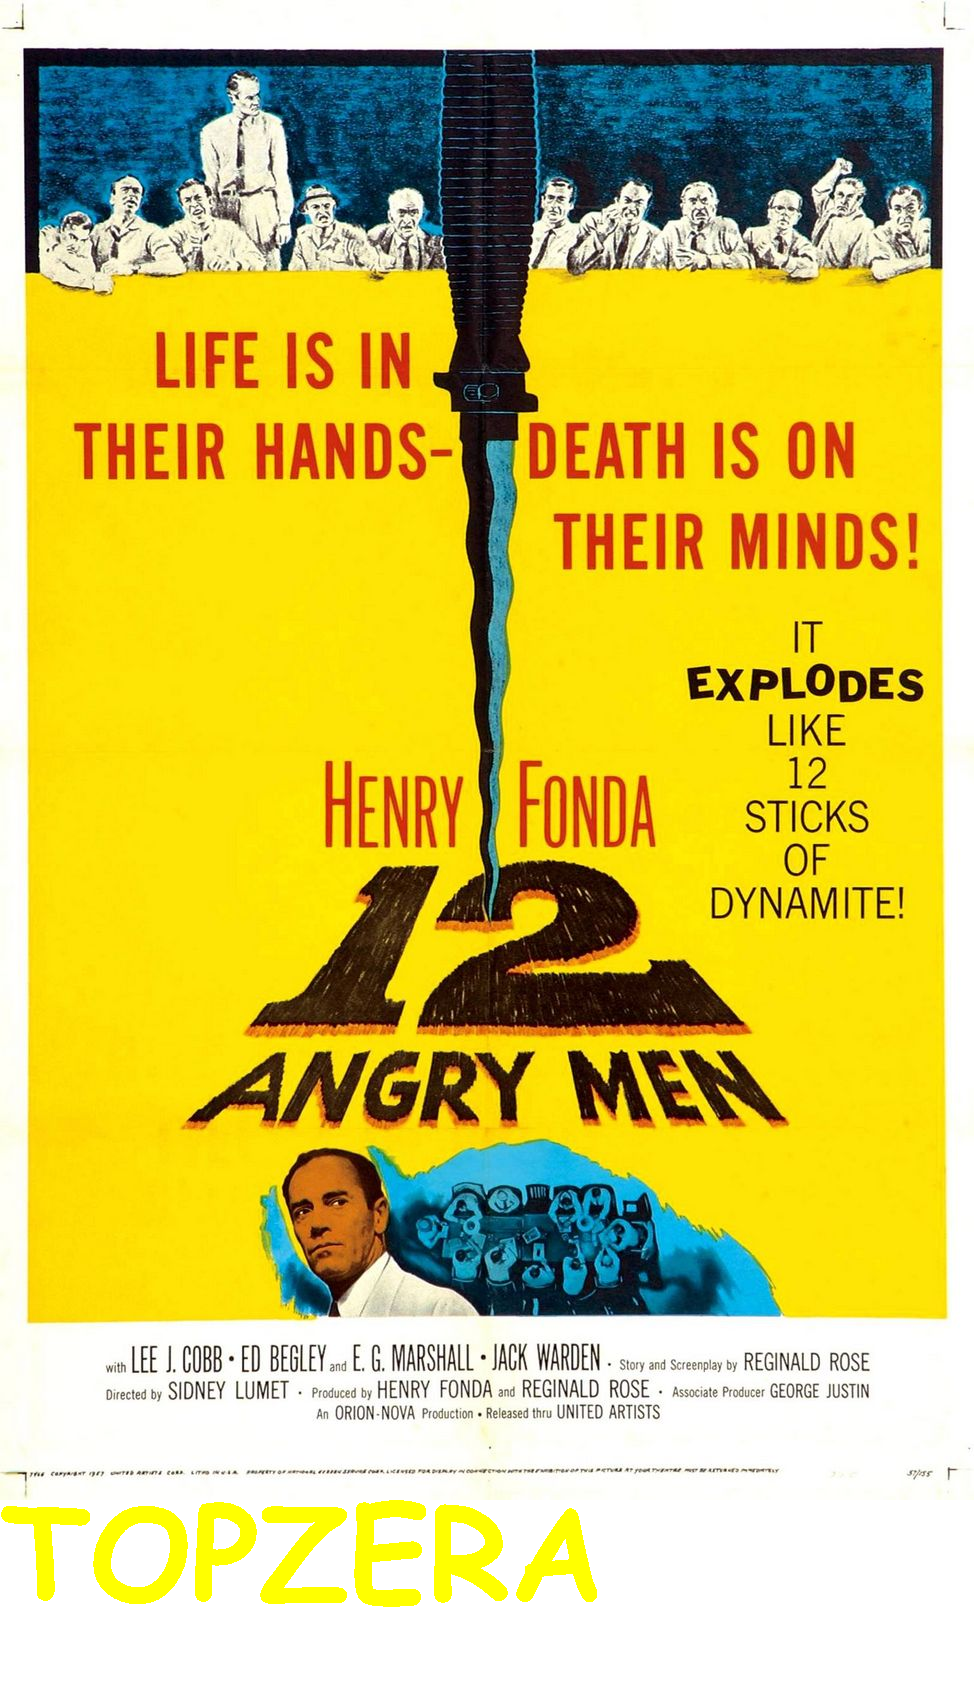
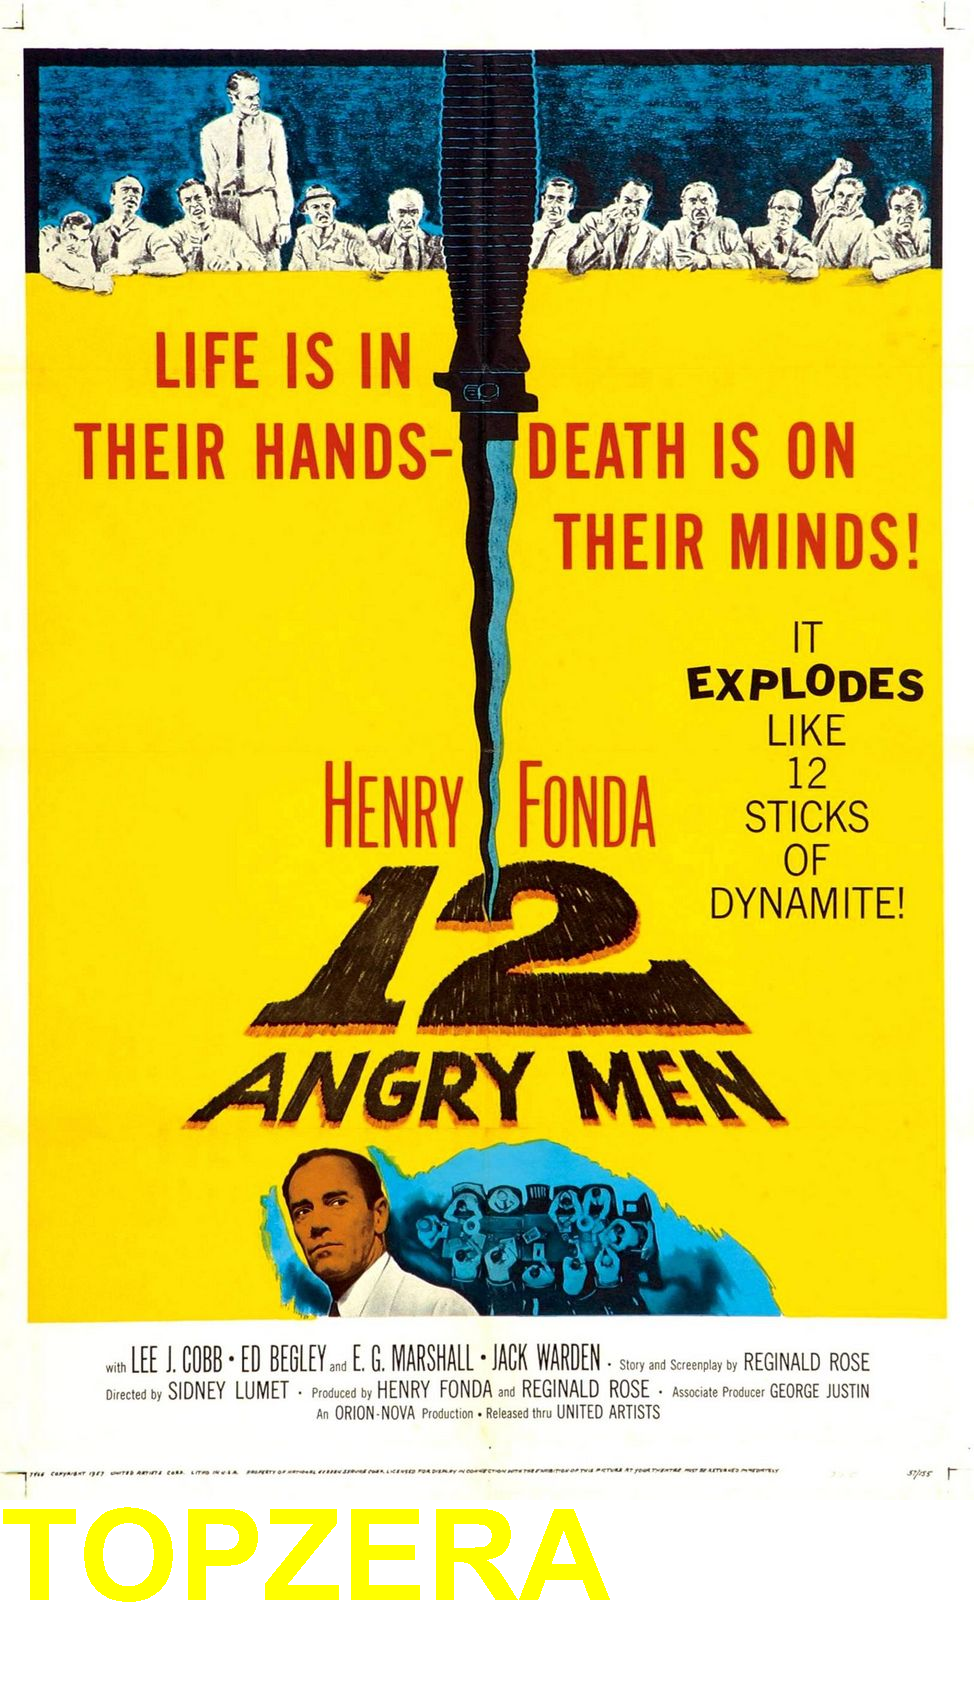
fixing commits & branches - master

Changed region(s): [[0.0308, 0.8729, 0.2464, 0.9353], [0.308, 0.8729, 0.4312, 0.9665], [0.462, 0.8729, 0.616, 0.9353]]

diff --git a/src/GeradoraDeFigurinhas.java b/src/GeradoraDeFigurinhas.java
@@ -19,10 +19,9 @@ public class GeradoraDeFigurinhas {
         Graphics2D graphics = (Graphics2D) novaImagem.getGraphics();
         graphics.drawImage(imagemOriginal, 0, 0, null);
         graphics.setColor(Color.YELLOW);
-        graphics.setFont(new Font("Comic Sans MS", Font.BOLD, 128));
+        graphics.setFont(new Font(Font.SANS_SERIF, Font.BOLD, 128));
         graphics.drawString("TOPZERA", 0, novaAltura - 100);
 
-        new File("saida/").mkdir();
         ImageIO.write(novaImagem, "png", new File("saida/" + nomeArquivo));
     }
 }

diff --git a/README.md b/README.md
@@ -1,3 +1,3 @@
-# Desafio 5
+# Desafio 6
 
-Colocar outra fonte como a Comic Sans ou a Impact, a fonte usada em memes.
+Colocar uma imagem de você que está fazendo esse curso sorrindo, fazendo joinha!
